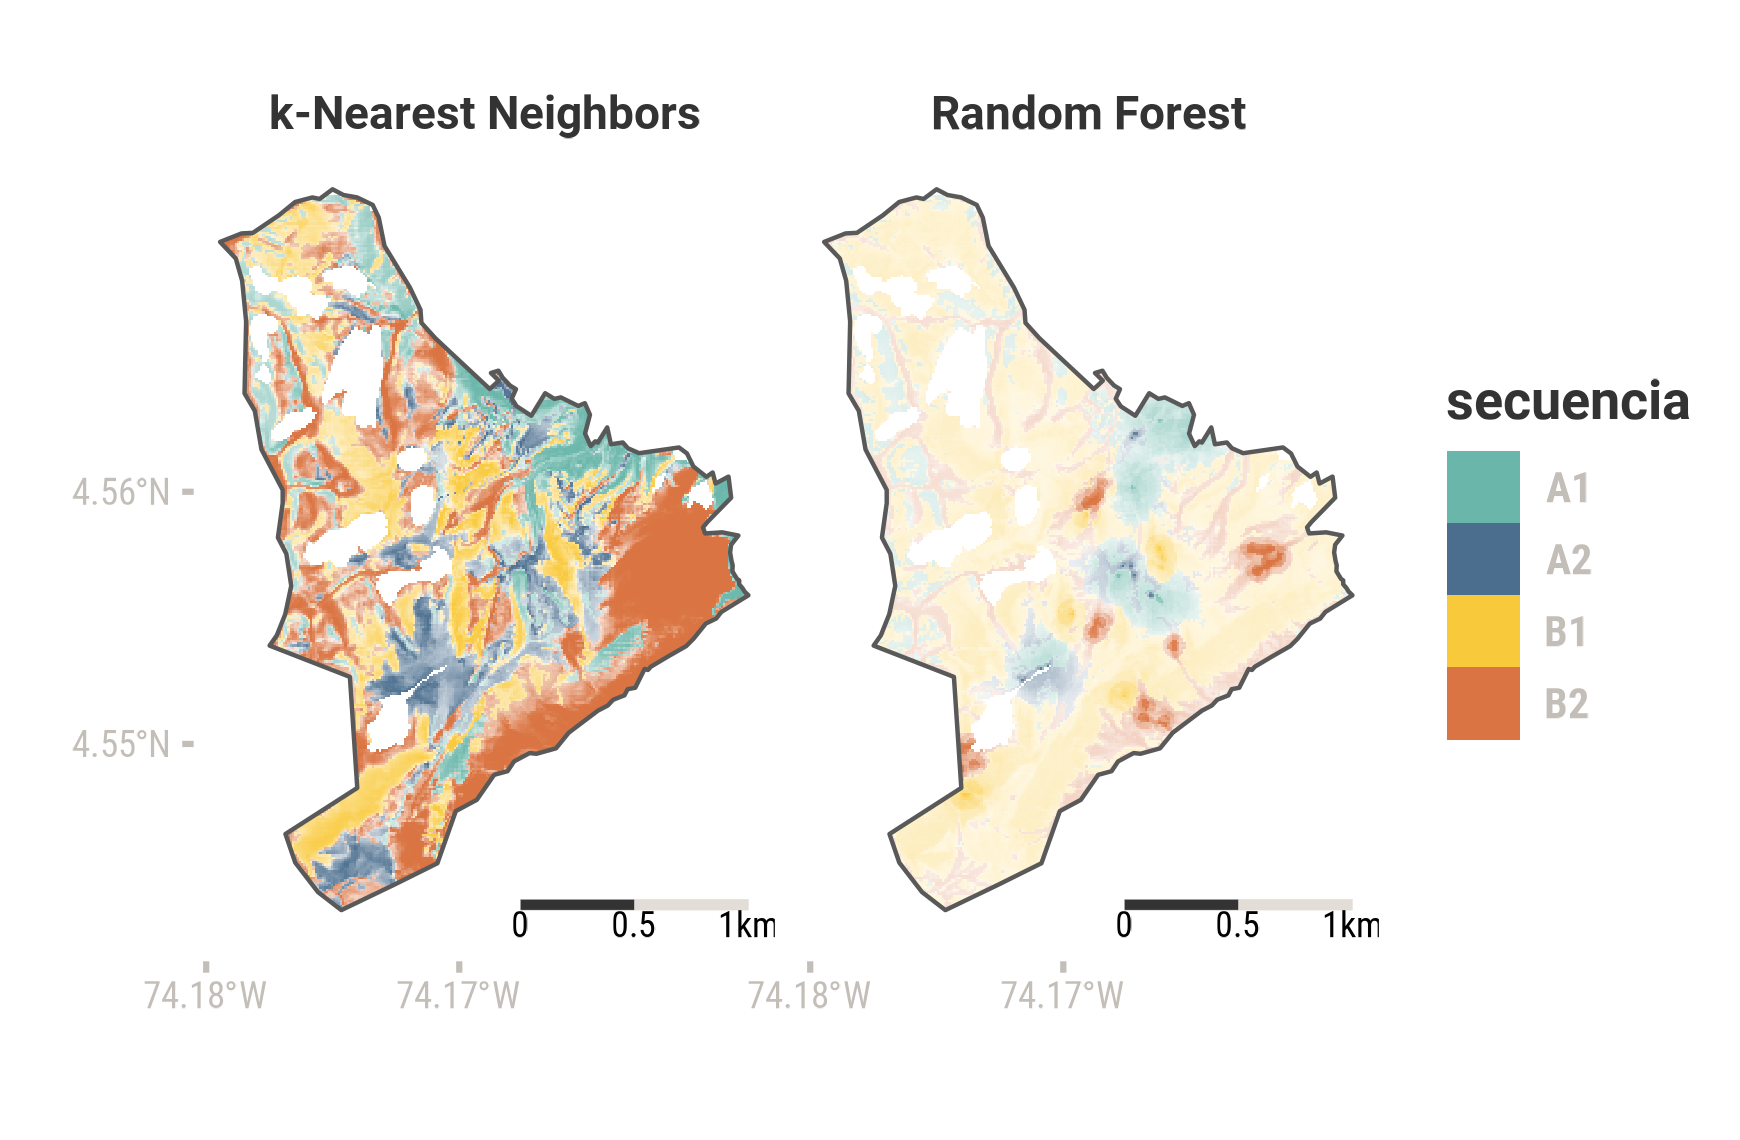
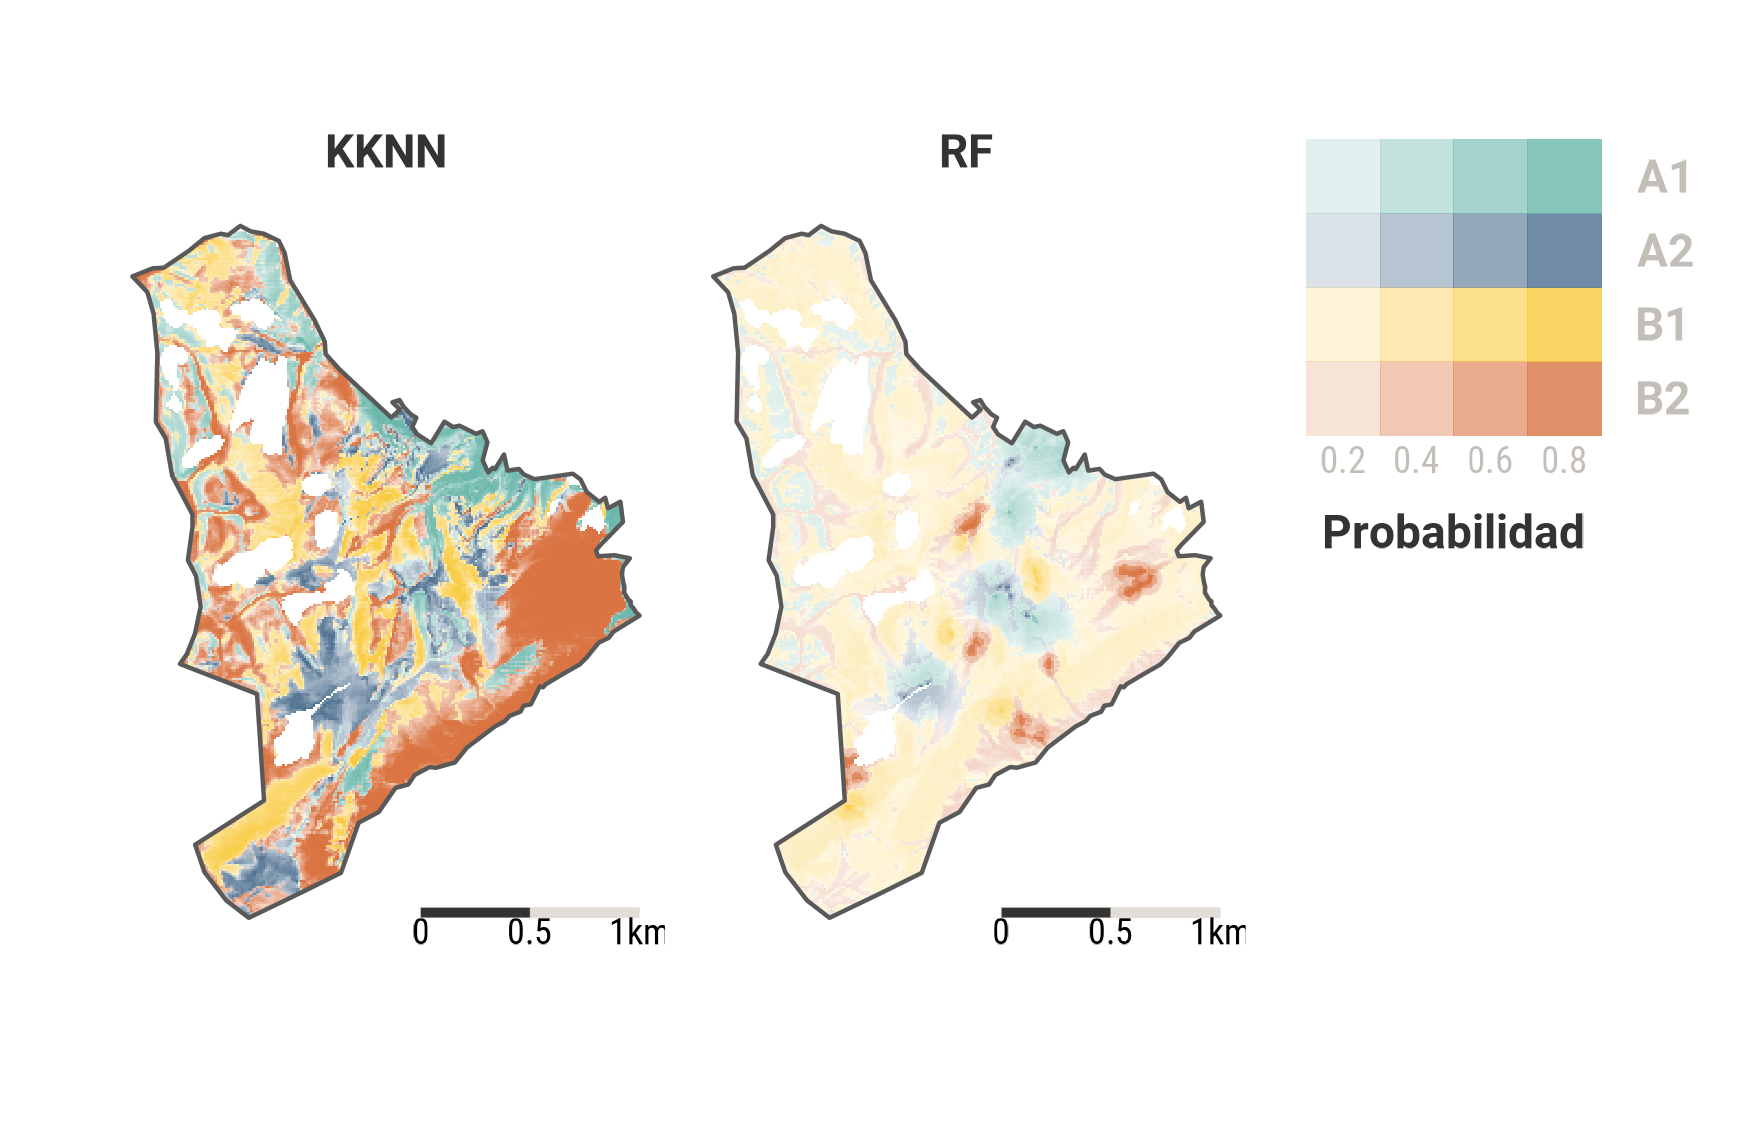
Adde probability legend

diff --git a/Reportes/06_TCI_CS_Modelos_Caret.md b/Reportes/06_TCI_CS_Modelos_Caret.md
@@ -2,7 +2,7 @@
 title: "TCI - Cerro Seco / Suelos"
 subtitle: "Modelado II: caret"
 author: "Carlos Guio"
-date: "2021-08-17"
+date: "2021-08-30"
 knit: (function(inputFile, encoding) { 
       out_dir <- 'Reportes';
       rmarkdown::render(input = inputFile,
@@ -633,39 +633,59 @@ knn tiene distribución discreta de valores de probabilidades para las diferente
 
 
 
+<img src="C:\Users\cguio\DOCUME~1\Terrae\TCI_CE~1\_Git\Reportes\06_TCI~1/figure-html/plot_models-1.png" width="80%" style="display: block; margin: auto;" />
+
+
 
 ```r
-p_modelos <- ggplot() + 
-  geom_raster(data = predicted_raster, 
-              aes(x = long, y = lat, 
-                  fill = secuencia ,
-                  alpha = prob))+
-  geom_sf(data = CSsf_18N, fill = NA) +
-  ggsn::scalebar(data = CSsf_18N, 
-           dist = 0.5, 
-           dist_unit = "km",
-           transform = FALSE,
-           st.size = 3,
-           height=0.015,
-           border.size = 0.05,
-           box.color = "#e2ddd6",
-           box.fill = c("grey20","#e2ddd6"),
-           family = "robotoc" )+
-  scale_fill_manual(values = col_scp)+
-  scale_alpha_continuous(guide = "none")+
-  facet_wrap(vars(modelo))+
-  labs(x = "", y = "")+
-  scale_x_continuous(breaks=c(-74.18, -74.17))+
-  scale_y_continuous(breaks=c(4.55,4.56)) +
-  theme(strip.text = element_text(family = "roboto", 
-                                  face = "bold",
-                                  size = 11,
-                                  color = "grey20"))
+df <- data.frame(
+  x = rep(c(0.2, 0.4, 0.6, 0.8), 4),
+  y = rep(c(0.2, 0.4, 0.6, 0.8), each = 4),
+  z = factor(rep(1:16))
+)
 
-p_modelos
+p_leyenda <- ggplot(df, aes(x, y)) +
+  geom_tile(aes(fill = z))+
+  scale_fill_manual(values = c(adjust_transparency('#DA7543', 
+                                                   alpha = c(.2, .4, .6, .8)), 
+                               adjust_transparency('#F9C93C', 
+                                                   alpha = c(.2, .4, .6, .8)), 
+                               adjust_transparency('#4B6E8E', 
+                                                   alpha = c(.2, .4, .6, .8)), 
+                               adjust_transparency('#6AB6AA', 
+                                                   alpha = c(.2, .4, .6, .8)))) +
+  coord_fixed(ratio = 1) +
+  scale_x_continuous(labels = c(0.2, 0.4, 0.6, 0.8), 
+                     breaks = c(0.2,0.4,0.6,0.8))+
+  scale_y_continuous(position = "right", 
+                     labels = c("B2", "B1", "A2", "A1"), 
+                     breaks = c(0.2,0.4,0.6,0.8))+
+  labs(x = "Probabilidad")+
+  theme(legend.position = "none",
+        panel.grid = element_blank(),
+        panel.border = element_blank(),
+        axis.ticks = element_blank(),
+        axis.text.x = element_text(vjust = 4),
+        axis.title.x = element_text(size = 11, 
+                                    color = "grey20", 
+                                    family = "roboto",
+                                    face = "bold"),
+        axis.title.y = element_blank(),
+        axis.text.y = element_text(size = 11, 
+                                   color = "#c3beb8", 
+                                   family = "roboto",
+                                   face = "bold"))
+
+
+
+
+p_leyenda
 ```
 
-<img src="C:\Users\cguio\DOCUME~1\Terrae\TCI_CE~1\_Git\Reportes\06_TCI~1/figure-html/plot_models-1.png" width="80%" style="display: block; margin: auto;" />
+<img src="C:\Users\cguio\DOCUME~1\Terrae\TCI_CE~1\_Git\Reportes\06_TCI~1/figure-html/plot_ley-1.png" width="80%" style="display: block; margin: auto;" />
+
+
+
 
 knnn predijo secuencias distribuídas sobre grandes áreas, mientras que rf predijo una distribución mas fina.
 
